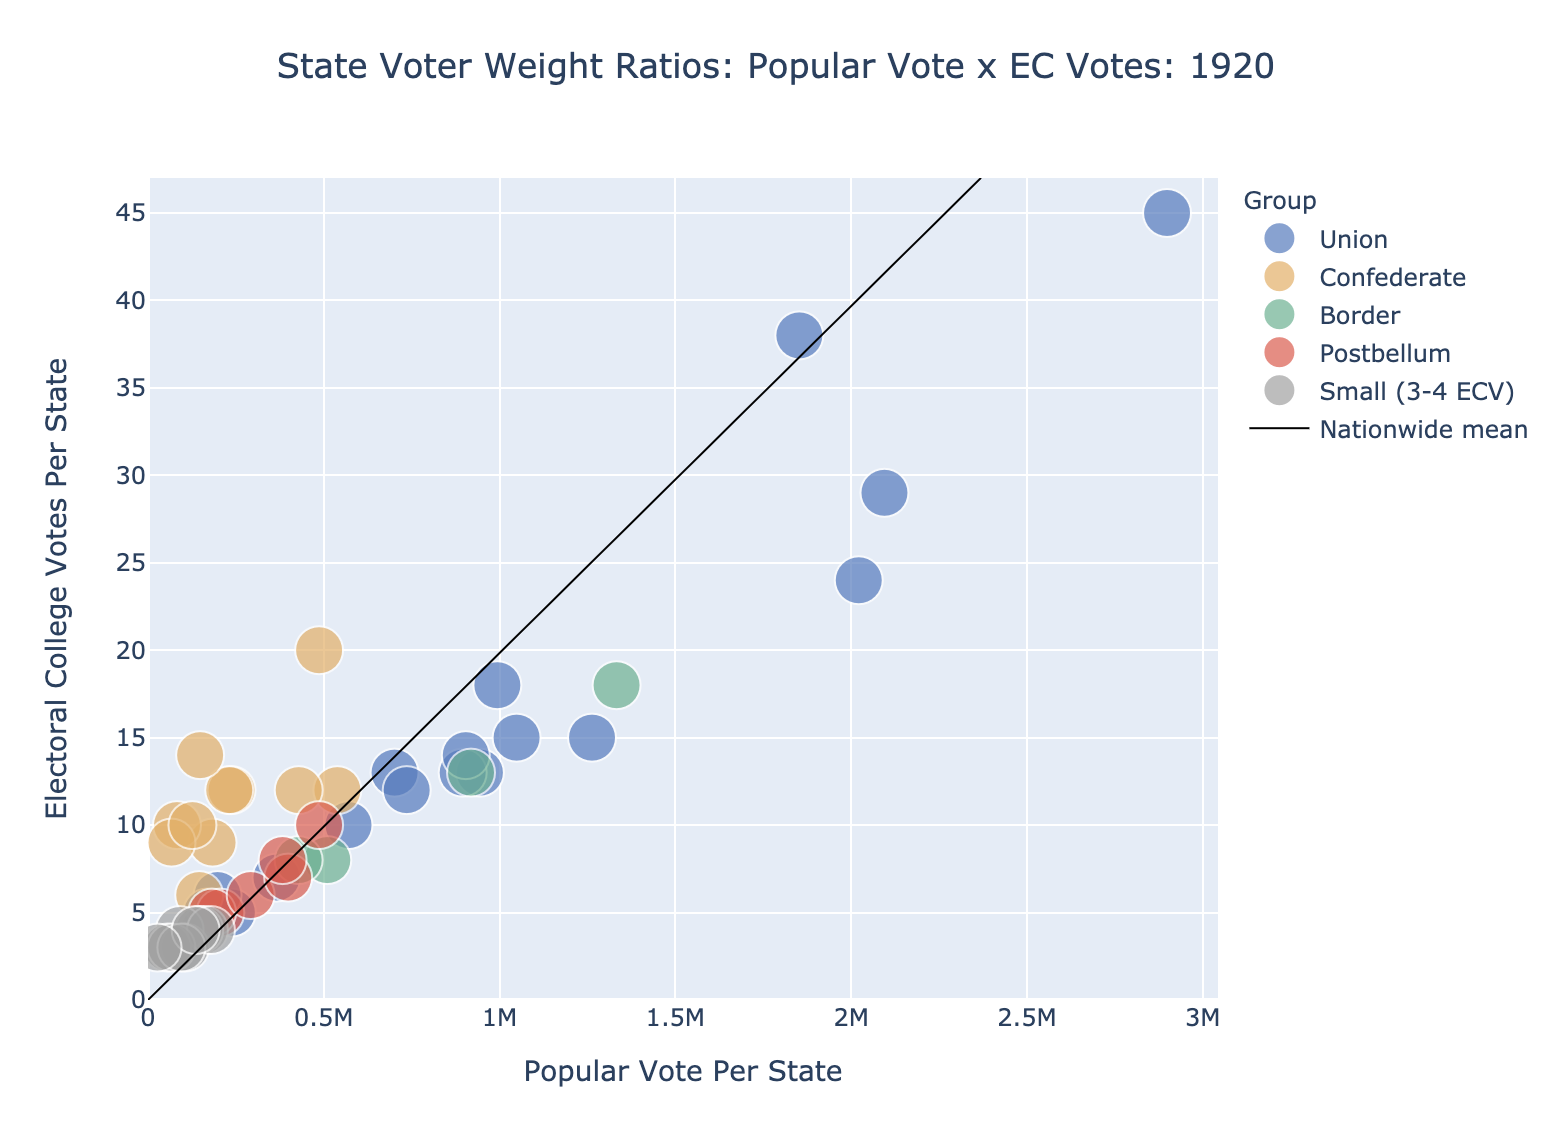
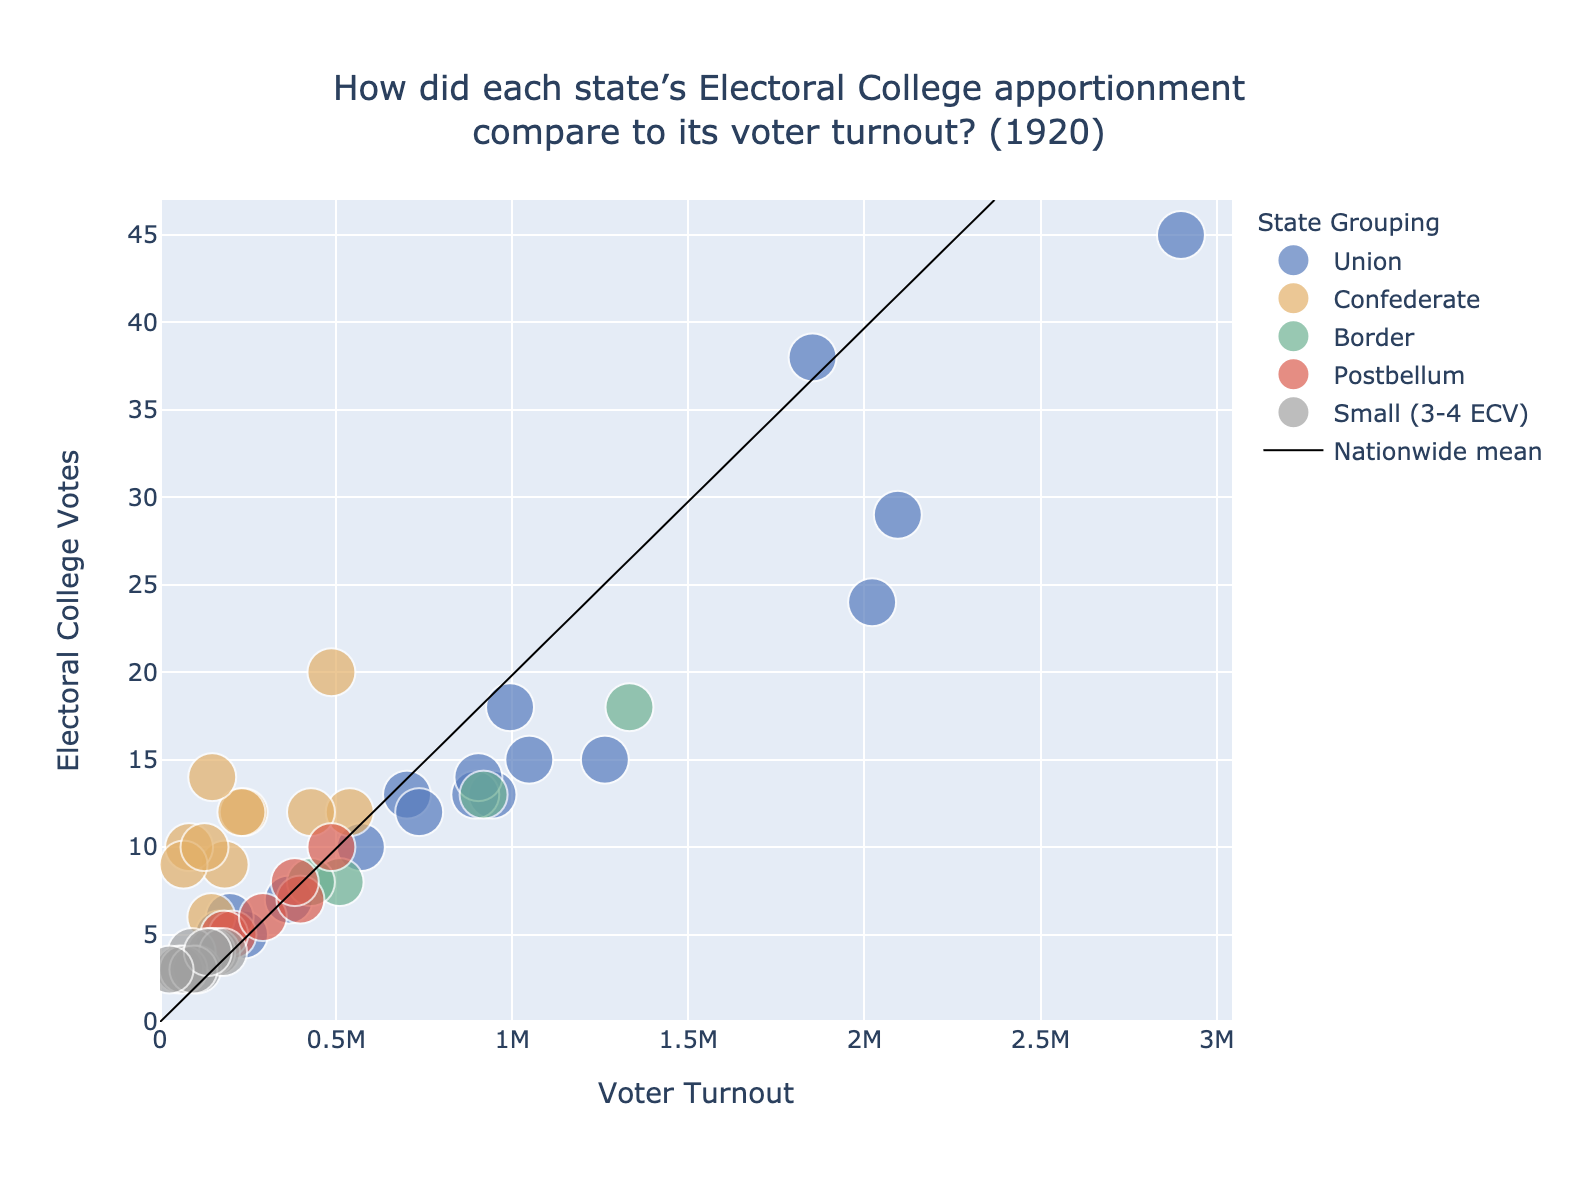
home page screenshot images, new conclusions section, and spot editing throughout

diff --git a/dash_pages/voter_weight_conclusions.py b/dash_pages/voter_weight_conclusions.py
@@ -34,8 +34,8 @@ content = html.Div([
                             ]),
                             html.P(className="card-text", children=[
                                 "In the two decades following Reconstruction, the voter suppression effect in former Confederate states appears to have \
-                                ticked up to levels matching the antebellum Voter Weight status quo, followed by a period of ", html.I("significant"),
-                                " amplification during the first five decades of the 20th century."
+                                ticked up to levels matching the antebellum hyper-enfranchisement status quo, followed by a period of ", 
+                                html.I("significant"), " amplification during the first five decades of the 20th century."
                             ]),
                             html.P(className="card-text", children=[
                                 "These aren’t rigorously-defensible scholarly claims, they’re layperson interpretations of a data set that’s much easier \
@@ -109,7 +109,7 @@ content = html.Div([
                         dbc.CardBody([
                             html.H4("Other interpretations of Voter Weight trends and Electoral College bias", className="card-title"),
                             html.P(className="card-text", children=[
-                                "To avoid wrapping every comment in a caveat, I’ve been fairly loose in my pronouncements that higher Voter Weights correlate \
+                                "To avoid wrapping every comment in a caveat, I’ve been fairly loose in my pronouncements that hyper-enfranchisement correlates \
                                 to higher levels of voter suppression, so I wanted to rattle off a few things that most certainly also have an effect on a \
                                 state’s Voter Weight metric:",
                                 html.Ul([
@@ -117,8 +117,8 @@ content = html.Div([
                                         a non-competitive one-party regional bloc (in part due to the wild success of their voter suppression tactics), the fact \
                                         that down-ballot winners were a foregone conclusion may have further depressed turnout"),
                                     html.Li("Other eligibility factors such as age, gender, incarceration status, felony record, etc vary from state to state"),
-                                    html.Li("Census apportionment is decennial, so EC influence always lags a few years behind a population explosion, lowering \
-                                        the Voter Weight in fast-growing states near the end of the decade"),
+                                    html.Li("Census apportionment is decennial, so Electoral College influence always lags a few years behind a population \
+                                        explosion, lowering the Voter Weight in fast-growing states near the end of the decade"),
                                     html.Li("Census apportionment in states with a higher percentage of undocumented residents who can’t legally vote increases \
                                         Voter Weight in that state. This is generally regarded as to the benefit, not the detriment, of those who are tabulated \
                                         but not enfranchised, but this creates a “five-fifths” type effect nonetheless."),
@@ -148,8 +148,8 @@ content = html.Div([
                             html.P(className="card-text", children=[
                                 "Although my quasi-scientific 40,000’ view of historical Voter Weight doesn’t show any obvious reversal of aggregate positive \
                                 trends in 2016 or 2020 (again: not an actual statistician, I just play one on the internet), it’s worth noting that it took a few \
-                                election cycles after Reconstruction for the Redeemer South’s suppression strategies to translate into pre-war Voter Weight \
-                                levels — only to wildly exceed that antebellum status quo over the course of several generations to follow."
+                                election cycles after Reconstruction for the Redeemer South’s suppression strategies to translate into pre-war \
+                                hyper-enfranchisement levels — only to wildly exceed that antebellum status quo over the course of several generations to follow."
                             ]),
                             html.P(className="card-text", children=[
                                 "Moreover, if there’s a lesson I’ve gleaned from reading about the Electoral College and racial justice history, it’s that \
@@ -163,6 +163,38 @@ content = html.Div([
                                 there will be attempts to disenfranchise based on race, ranging from the subtle to the obvious, the innovative to the familiar. \
                                 As antiquated an institution as the Electoral College is, as many tricks as have already been tried, past methods of manipulation \
                                 should always be viewed as prologue to future attempts."
+                            ]),
+                            html.Br(),
+                            html.H4("Hyper-enfranchisement: the power and megaphone to sustain itself", className="card-title"),
+                            html.P(className="card-text", children=[
+                                "The three-fifths compromise, that infamously dehumanizing fraction baked into the Constitution, would have been worse for the \
+                                plight of slaves if it had been five-fifths. This was actually what Southern slave-owners wanted: fully-counted slaves whose census \
+                                tabulation would result in greater congressional and Electoral College influence for Southern states, i.e. Southern white voters and \
+                                the institution of slavery."
+                            ]),
+                            html.P(className="card-text", children=[
+                                "After slavery was abolished and a dozen hopeful years of Reconstruction had fizzled out, the Southern white dream of fully-counted \
+                                yet disenfranchised Blacks was finally realized, via Jim Crow voter suppression. Thus the paradoxical interaction between citizenship \
+                                status, representational apportionment, and voter participation converged in the unforgiving calculus of the Electoral College to \
+                                create two distinct, self-sustaining systems of Southern white electoral dominance nationally: one lasting for eight decades during \
+                                slavery, and another lasting for nearly nine decades of Jim Crow."
+                            ]),
+                            html.P(className="card-text", children=[
+                                "By the 1970s, scarcely two decades—separated by 100 years—had passed where Southern Blacks enjoyed any measurable degree of \
+                                enfranchisement in the US, or where Southern whites weren't disproportionately dominant (per capita) in national politics. The \
+                                self-perpetuating nature of these two expansive periods, where one demographic built its disproportionate national influence on the \
+                                disenfranchisement of another, warrants intense retrospective scrutiny. Not only are there grounds for re-examination of hundreds \
+                                of government programs, pieces of legislation, legal appointments and judgments, etc that may have been geared toward preserving \
+                                the parasitic status quo of hyper-enfranchised Southern whites over disenfranchised Blacks, but there’s also the fact that the \
+                                disproportionate influence of Southern whites likely resulted in the national export of ideas connected to these ill-gotten \
+                                political gains."
+                            ]),
+                            html.P(className="card-text", children=[
+                                "The ubiquitous embrace of Lost Cause mythology in films like ", html.I("Birth of a Nation"), " and ", html.I("Gone With the Wind"), 
+                                ", the flying of the Confederate flag at Nascar rallies in Northern and Western states - these are just the obvious ones, but it \
+                                stands to reason that the larger megaphones enjoyed by Southern whites at the expense of their Black populations have propagated \
+                                countless artifacts into the national character that are directly associated to the expansive racism undergirding and sustaining \
+                                Southern white dominance."
                             ]),
                         ])
                     ])

diff --git a/dash_pages/voter_weight_main.py b/dash_pages/voter_weight_main.py
@@ -148,11 +148,16 @@ content = html.Div([
                     dbc.Card(className="border-success", children=[
                         dbc.CardBody([
                             html.P(className="card-text", style={"font-style": "italic"}, children=[
-                                "The figures above, the figures below, and every other figure in this publication use presidential election data accessible via this ",
-                                dcc.Link("Wikipedia portal", href="https://en.wikipedia.org/wiki/List_of_United_States_presidential_election_results_by_state", 
-                                target="_blank"), ". A consolidated version of that data (what I’m using to power this website) is available in csv format in the ",
-                                dcc.Link("data/ directory", href="https://github.com/dannynoonan/electoralytics/tree/master/data", target="_blank"), " of the ",
-                                dcc.Link("electoralytics repo", href="https://github.com/dannynoonan/electoralytics", target="_blank"), " on github."
+                                "The figures above, the figures below, and every other figure in this publication are interactive. Move the “Select year” slider to \
+                                bring a different election year into focus. Highlight a portion of the figure to zoom in, then double-click to reset to the original \
+                                scale. Roll over any bar in the chart to see the factors that contribute to its Voter Weight calculation."
+                            ]),
+                            html.P(className="card-text", style={"font-style": "italic"}, children=[ 
+                                "All figures use presidential election data accessible via this ", dcc.Link("Wikipedia portal", 
+                                href="https://en.wikipedia.org/wiki/List_of_United_States_presidential_election_results_by_state", target="_blank"), ". A consolidated \
+                                version of that data (what I’m using to power this website) is available in csv format in the ", dcc.Link("data/ directory", 
+                                href="https://github.com/dannynoonan/electoralytics/tree/master/data", target="_blank"), " of the ", dcc.Link("electoralytics repo", 
+                                href="https://github.com/dannynoonan/electoralytics", target="_blank"), " on github."
                             ]),
                         ]),
                     ]),
@@ -404,8 +409,8 @@ content = html.Div([
                         dbc.CardBody([
                             html.H4("Five-fifths and then some"),
                             html.P(className="card-text", children=[
-                                "If the range of Voter Weights seems more extreme in this era than it did in the other two time periods, well... that’s because it \
-                                is. Highlighting just one example: If Voter Weight in 1940 was 7.5 in South Carolina compared with 0.96 in Connecticut, that means \
+                                "If the hyper-enfranchisement effect seems more extreme in this era than it did in the other two time periods, well... that’s because \
+                                it is. Highlighting just one example: If Voter Weight in 1940 was 7.5 in South Carolina compared with 0.96 in Connecticut, that means \
                                 pound-for-pound it would take 7-8 votes cast in Connecticut to equal the influence of a single vote cast in South Carolina. This \
                                 represents a staggering disparity in the influence of individual voters—that is, those permitted to vote—in these states."
                             ]),

diff --git a/dash_pages/components.py b/dash_pages/components.py
@@ -33,12 +33,12 @@ navbar = dbc.Card(className="text-white bg-primary", children=[
             dbc.NavItem(dbc.NavLink("Home", href="/")),
             dbc.DropdownMenu(label="Visualizing Jim Crow voter suppression", nav=True, children=[
                 dbc.DropdownMenuItem([html.I(className="fa"), "American voter enfranchisement: A zero-sum game"], href='/voter-weight-landing', target="_blank"), 
-                dbc.DropdownMenuItem([html.I(className="fa"), "Main Aricle"], href='/voter-weight-electoral-college-bias-overview', target="_blank"), 
-                dbc.DropdownMenuItem([html.I(className="fa"), "Annotated Timeline Charting Voter Weight Trends"], href='/voter-weight-timeline-visualization', target="_blank"), 
+                dbc.DropdownMenuItem([html.I(className="fa"), "Apportionment, participation, and Electoral College bias"], href='/voter-weight-electoral-college-bias-overview', target="_blank"), 
+                dbc.DropdownMenuItem([html.I(className="fa"), "Annotated timeline charting Voter Weight trends"], href='/voter-weight-timeline-visualization', target="_blank"), 
                 dbc.DropdownMenuItem([html.I(className="fa"), "Calculating Voter Weight"], href='/voter-weight-calculation', target="_blank"), 
-                dbc.DropdownMenuItem([html.I(className="fa"), "Explanation of State Groupings"], href='/explanation-of-groupings', target="_blank"), 
-                dbc.DropdownMenuItem([html.I(className="fa"), "Discussion and Conclusions"], href='/voter-weight-conclusions', target="_blank"), 
-                dbc.DropdownMenuItem([html.I(className="fa"), "The Vault: 220 Years of Maps, Charts, & Figures"], href='/voter-weight-figure-vault', target="_blank"), 
+                dbc.DropdownMenuItem([html.I(className="fa"), "Explanation of state groupings"], href='/explanation-of-groupings', target="_blank"), 
+                dbc.DropdownMenuItem([html.I(className="fa"), "Discussion and conclusions"], href='/voter-weight-conclusions', target="_blank"), 
+                dbc.DropdownMenuItem([html.I(className="fa"), "The vault: 220 years of maps, charts, & figures"], href='/voter-weight-figure-vault', target="_blank"), 
             ]),
             dbc.DropdownMenu(label="References / Resources", nav=True, children=[
                 dbc.DropdownMenuItem([html.I(className="fa"), "Project source code"], href='https://github.com/dannynoonan/electoralytics', target="_blank"), 

diff --git a/dash_pages/home_page.py b/dash_pages/home_page.py
@@ -23,8 +23,20 @@ content = html.Div([
                                 a deep dive into Electoral College data to illustrate the effects of disenfranchisement in the Jim Crow South as \
                                 compared to the pre-Civil War era of slavery."
                             ]),
-                            html.H4(children=[
-                                dcc.Link("[2/12/2021] American voter enfranchisement: A zero-sum game", href="/voter-weight-landing")
+                            html.A(className="list-group-item list-group-item-action flex-column align-items-start bg-primary", 
+                                href="/voter-weight-landing", children=[
+                                html.H4(className="mb-1 text-success", children=[
+                                    "[2-12-2021] American voter enfranchisement: A zero-sum game",
+                                ]),
+                                html.Img(src="/static/screenshots/barFreeSlaveSmall1852.png", height="255", style={"padding": "5px", "padding-top": "10px"}),
+                                html.Img(src="/static/screenshots/mapFreeSlaveSmall1852.png", height="255", style={"padding": "5px", "padding-top": "10px"}),
+                                html.Img(src="/static/screenshots/scatterDotsFreeSlaveSmall1852.png", height="255", style={"padding": "5px", "padding-top": "10px"}),
+                                html.Br(),
+                                html.Img(src="/static/screenshots/barAcw1920.png", height="263", style={"padding": "5px", "padding-top": "10px"}),
+                                html.Img(src="/static/screenshots/scatterBubblesAcw1920.png", height="263", style={"padding": "5px", "padding-top": "10px"}),
+                                html.Img(src="/static/screenshots/boxAcw1920.png", height="263", style={"padding": "5px", "padding-top": "10px"}),
+                                html.Br(),
+                                html.Img(src="/static/screenshots/lineChartGroupVwSince1800.png", height="410", style={"padding": "5px", "padding-top": "10px"}),
                             ]),
                         ]),
                     ]),

diff --git a/fig_builder/line_charts.py b/fig_builder/line_charts.py
@@ -88,6 +88,7 @@ def build_vw_by_state_group_line_chart(data_obj, groups_dir, max_small, fig_widt
 
     # display metadata
     fig_title = 'Average Voter Weight Per Ballot Cast For Each Presidential Election'
+    groups_label = 'State Grouping'
     if display_groups:
         fig_title = f"{fig_title}, Grouped By Region"
     if trace_count >= MAX_TRACE_COUNT:
@@ -115,7 +116,8 @@ def build_vw_by_state_group_line_chart(data_obj, groups_dir, max_small, fig_widt
     # init figure with core properties
     fig = px.line(group_aggs_by_year_df, x=cols.YEAR, y=cols.AVG_WEIGHT, color=cols.GROUP, title=fig_title, 
                     color_discrete_map=group_colors, category_orders={cols.GROUP: groups}, custom_data=custom_data,
-                    width=fig_width, height=fig_height, line_shape='spline', log_y=log_y)
+                    labels={cols.GROUP: groups_label}, width=fig_width, height=fig_height, 
+                    line_shape='spline', log_y=log_y)
     
     # include dots marking data points in each trace
     for i in range(len(fig.data)):
